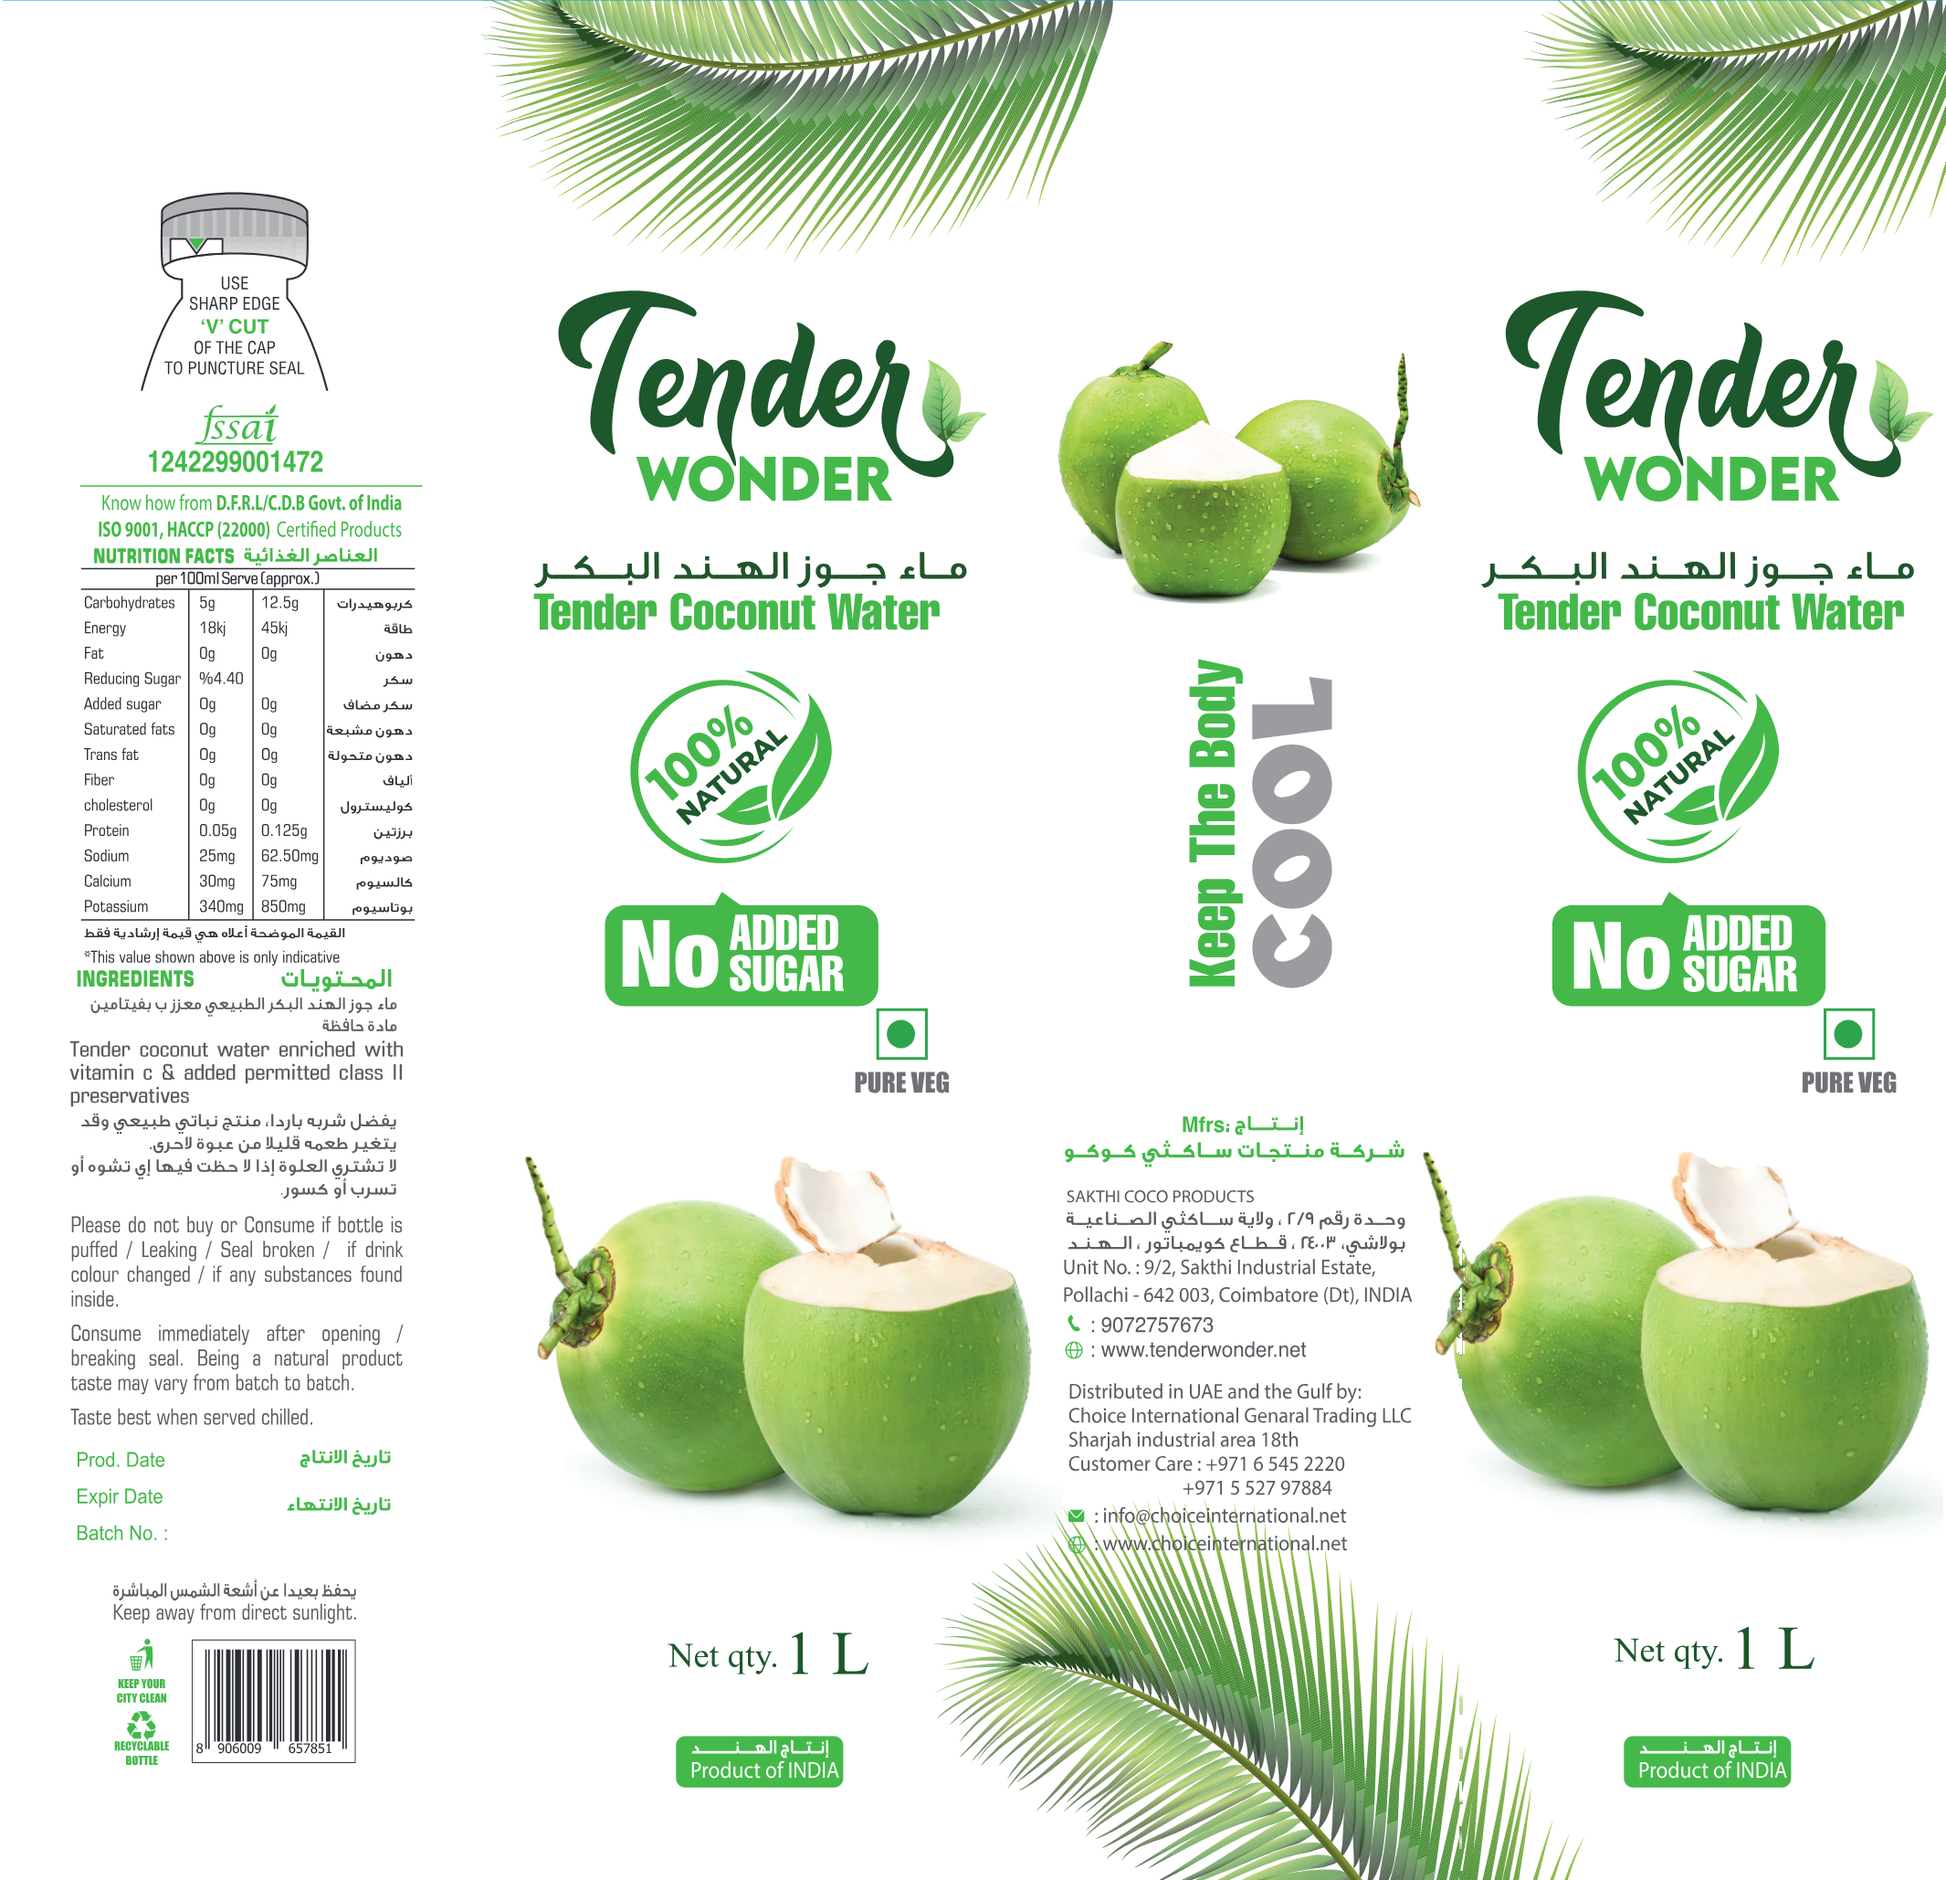
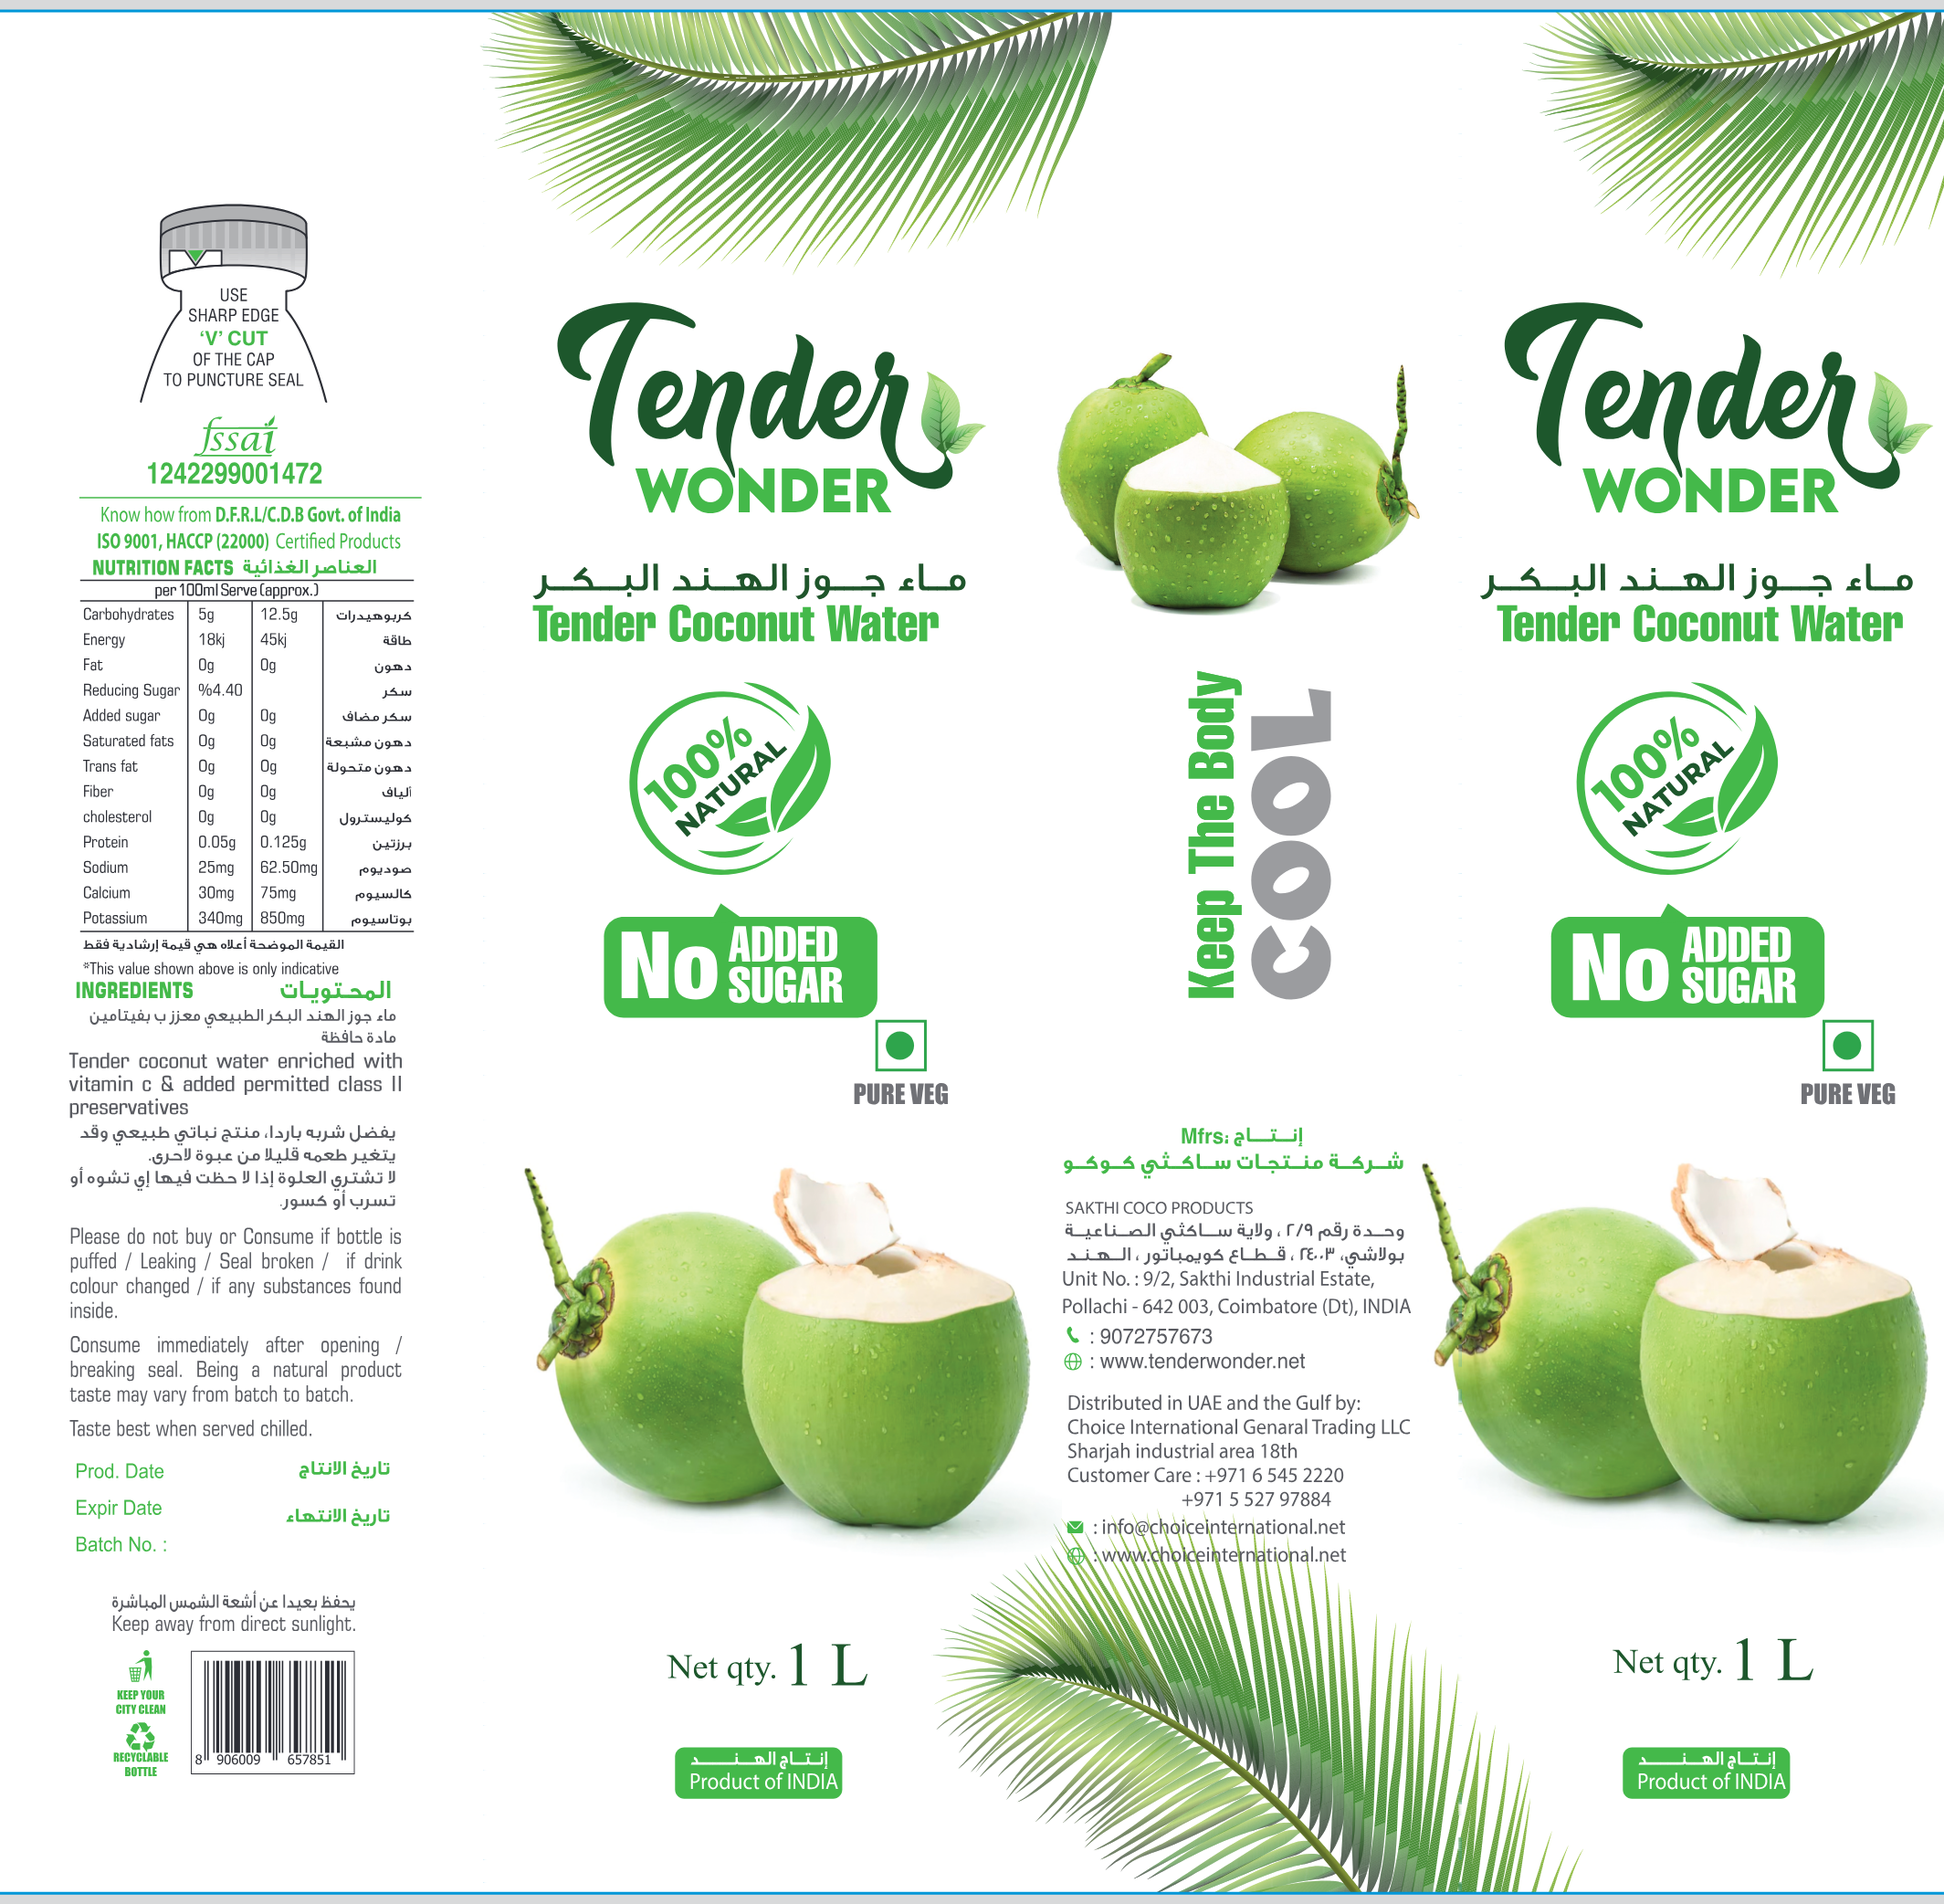
Apply authentic 1L label design from TENDER WONDER 1LITER.ai with 2 coconuts, Net qty. 1L, and pure white sleeve wrap

diff --git a/src/main.js b/src/main.js
@@ -812,15 +812,15 @@ if (heroStage) {
   const sleeveGeo = createRevolvedGeometry(sleevePts, 64, sleevePts[0].z, sleevePts[sleevePts.length - 1].z);
 
   const texLoader = new THREE.TextureLoader();
-  const labelAlbedoTex = texLoader.load('/textures/label_albedo.png?v=15', (t) => {
+  const labelAlbedoTex = texLoader.load('/textures/label_albedo.png?v=16', (t) => {
     t.colorSpace = THREE.SRGBColorSpace;
     t.wrapS = THREE.RepeatWrapping;
     t.wrapT = THREE.ClampToEdgeWrapping;
-    t.offset.x = -0.095; // Align the exact center of front Tender WONDER logo to rotation.y = 0
+    t.offset.x = 0.0; // Front face (Tender WONDER, 2 coconuts, Net qty. 1 L) centered at camera angle
     t.anisotropy = renderer.capabilities.getMaxAnisotropy();
   });
   labelAlbedoTex.wrapS = THREE.RepeatWrapping;
-  labelAlbedoTex.offset.x = -0.095;
+  labelAlbedoTex.offset.x = 0.0;
   window.labelAlbedoTex = labelAlbedoTex;
 
   const sleeveMat = new THREE.MeshStandardMaterial({
